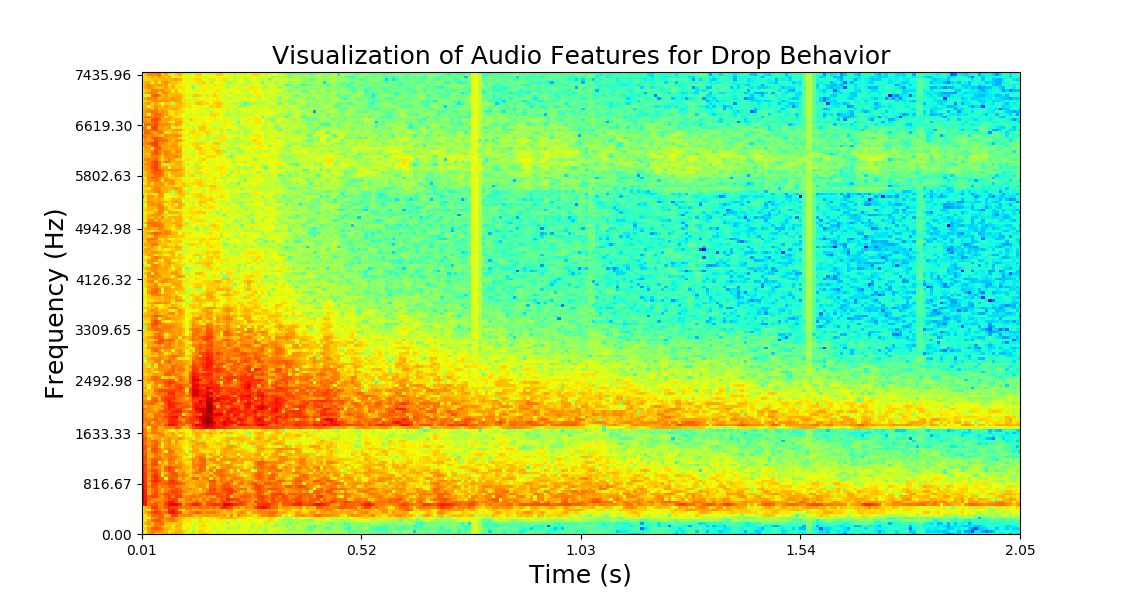
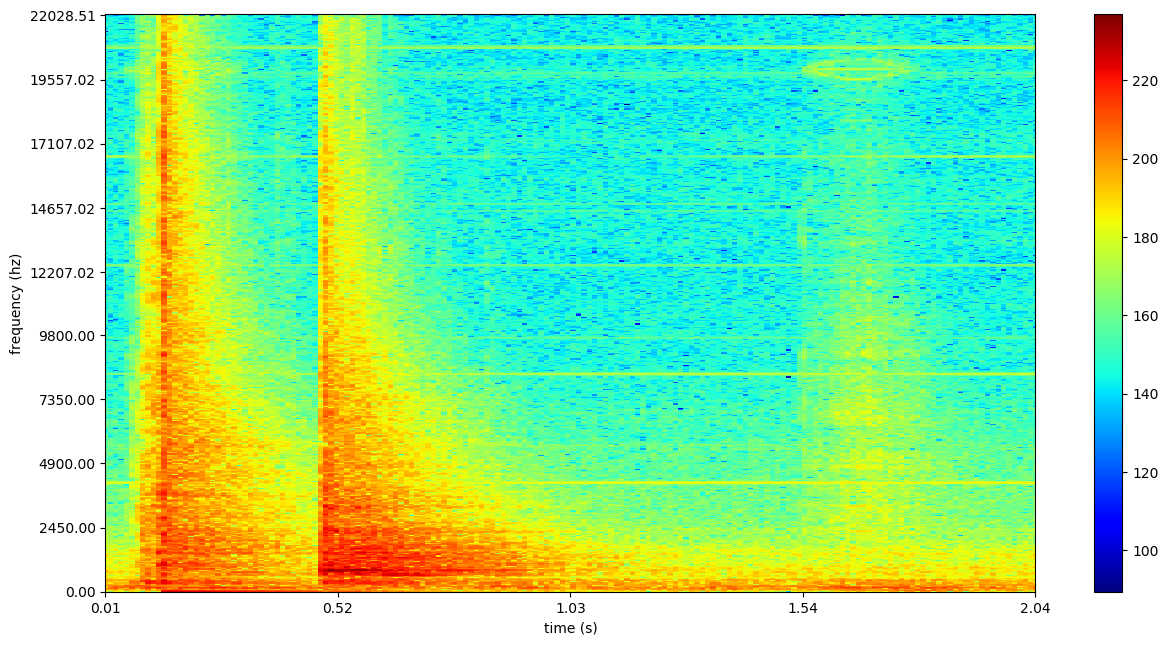
visual update

diff --git a/dataset_visualization/plot_haptic_all_frames.py b/dataset_visualization/plot_haptic_all_frames.py
@@ -22,11 +22,11 @@ crop_stategy = {
     'hold': [0, -1],
 }
 
-behavior='low_drop'
-n_frames_low_drop_can_coke=22
+behavior='crush'
+n_frames_low_drop_can_coke=48
 
-path1= '/Users/ramtin/PycharmProjects/data/CY101/rc_data/can_coke/trial_1/exec_1/low_drop/proprioception/ttrq0.txt'
-path2='/Users/ramtin/PycharmProjects/data/CY101/rc_data/can_coke/trial_1/exec_1/low_drop/proprioception/cpos0.txt'
+path1= '/home/golf/code/data/CY101/rc_data/can_coke/trial_1/exec_1/crush/proprioception/ttrq0.txt'
+path2='/home/golf/code/data/CY101/rc_data/can_coke/trial_1/exec_1/crush/proprioception/cpos0.txt'
 
 haplist1 = open(path1, 'r').readlines()
 haplist2 = open(path2, 'r').readlines()
@@ -39,15 +39,9 @@ bins = np.arange(haplist[0][0], haplist[-1][0], time_duration)
 end_time = haplist[-1][0]
 groups = np.digitize(haplist[:, 0], bins, right=False)
 
-# print("%d," %end_time)
-# for bin in bins:
-#     print("%d," %bin)
-
 haplist = [haplist[np.where(groups == idx)][..., 1:][:48] for idx in range(1, n_frames_low_drop_can_coke + 1)]
 haplist = [np.pad(ht, [[0, 48 - ht.shape[0]], [0, 0]], mode='edge')[np.newaxis, ...] for ht in haplist]
 haplist = haplist[crop_stategy[behavior][0]:crop_stategy[behavior][1]]
-
-# print(haplist[0][0]) # one frame
 
 haptic_across_all_frames = []
 for i in range(0, 21):
@@ -63,21 +57,36 @@ for index, a_frame in enumerate(haptic_across_all_frames):
 
 # haptic_data = np.array(haptic_across_all_frames).T.reshape(10,21) # extend
 haptic_data = haptic_across_all_frames.T
+sum_of_rows = haptic_data.sum(axis=1)
+haptic_data = haptic_data/ sum_of_rows[:, np.newaxis]
+fig = plt.figure(figsize=(22.0, 8.0))
+import matplotlib.gridspec as gridspec
+gs = gridspec.GridSpec(10, 1, hspace=0.1)
+# fig1, f1_axes = plt.subplots(ncols=1, nrows=10, constrained_layout=True,figsize=(20.0, 8.0))
+ax1 = None
+for i, g in enumerate(gs):
+    ax = plt.subplot(g)
+    ax.set_xticks([])
+    ax.set_yticks([])
+    # ax.set_title(str(i+1))
+    if i ==0 :
+        plt.title("Visualization of Haptic Features", fontsize=24)
+    # ax.set_yticks(np.arange(0, 10+1, 1))
+    plt.imshow(haptic_data[i:i+1,:])
+    plt.ylabel(ylabel=str(i+1), fontsize=20)
+    if i == 9:
+        plt.xticks(np.arange(0, 21+1, 2), fontsize=20)
+        # plt.
+# f1_axes[0].imshow(haptic_data, cmap=plt.cm.gray) #for gray_scale: cmap=plt.cm.gray
 
-fig = plt.figure(figsize=(20.0, 8.0))
-plt.imshow(haptic_data) #for gray_scale: cmap=plt.cm.gray
+# ax = plt.gca()
+# ax.set_xticklabels(np.arange(1, 21+1 , 2))
+# ax.set_yticklabels(np.arange(1, 10+1, 1))
 
-ax = plt.gca()
-ax.set_xticks(np.arange(0, 21+1, 2))
-ax.set_yticks(np.arange(0, 10+1, 1))
-ax.set_xticklabels(np.arange(1, 21+1 , 2))
-ax.set_yticklabels(np.arange(1, 10+1, 1))
+# plt.ylabel(ylabel="Joints [1-7], End Effector [8-10]", fontsize=18)
+plt.xlabel(xlabel="Frames", fontsize=24)
 
-plt.ylabel(ylabel="Joints [1-7], End Effector [8-10]", fontsize=18)
-plt.xlabel(xlabel="Frames", fontsize=18)
-plt.title("Visualization of Haptic Features", fontsize=18)
-
-plt.colorbar()
-# plt.show()
+# plt.colorbar()
 plt.savefig("haptic_low_drop_can_coke.png", dpi=300, bbox_inches='tight')
+plt.show()
 plt.close()

diff --git a/results/plot_all_with_std.py b/results/plot_all_with_std.py
@@ -16,15 +16,15 @@ f, axes = plt.subplots(1, 2, figsize=(13.5,4.5)) #figsize=(13.5,4.5)
 for i, metric in enumerate(paths):
     df = pd.read_csv(paths[metric])
     if i == len(paths)-1:
-        axes[1].errorbar(x=range(4, 20), y=df.use_haptic_audio_vibro_mean, yerr=df.use_haptic_audio_vibro_std, marker="o", label="vision+haptic+audio+vibro", color='red')
-        axes[1].errorbar(x=range(4, 20), y=df.use_haptic_audio_mean, yerr=df.use_haptic_audio_std, marker="o", label="vision+haptic+audio", color='green')
-        axes[1].errorbar(x=range(4, 20), y=df.use_haptic_mean, yerr=df.use_haptic_std, marker="o", label="vision+haptic", color='orange')
-        axes[1].errorbar(x=range(4, 20), y=df.baseline_mean, yerr=df.baseline_std, marker=8, label="Finn et al.", color='blue')
+        axes[1].errorbar(x=range(4, 20), y=df.use_haptic_audio_vibro_mean, yerr=df.use_haptic_audio_vibro_std, marker="x", fillstyle='none',label="vision+haptic+audio+vibro", color='red')
+        axes[1].errorbar(x=range(4, 20), y=df.use_haptic_audio_mean, yerr=df.use_haptic_audio_std, marker='v', fillstyle='none',label="vision+haptic+audio", color='green')
+        axes[1].errorbar(x=range(4, 20), y=df.use_haptic_mean, yerr=df.use_haptic_std, marker="o", fillstyle='none',label="vision+haptic", color='orange')
+        axes[1].errorbar(x=range(4, 20), y=df.baseline_mean, yerr=df.baseline_std, marker=8, fillstyle='none',label="Finn et al.", color='blue')
     else:
-        axes[0].errorbar(x=range(4, 20), y=df.use_haptic_audio_vibro_mean, yerr=df.use_haptic_audio_vibro_std, marker="o", color='red')
-        axes[0].errorbar(x=range(4, 20), y=df.use_haptic_audio_mean, yerr=df.use_haptic_audio_std, marker="o", color='green')
-        axes[0].errorbar(x=range(4, 20), y=df.use_haptic_mean, yerr=df.use_haptic_std, marker="o", color='orange')
-        axes[0].errorbar(x=range(4, 20), y=df.baseline_mean, yerr=df.baseline_std, marker=8, color='blue')
+        axes[0].errorbar(x=range(4, 20), y=df.use_haptic_audio_vibro_mean, yerr=df.use_haptic_audio_vibro_std, fillstyle='none',marker="x", color='red')
+        axes[0].errorbar(x=range(4, 20), y=df.use_haptic_audio_mean, yerr=df.use_haptic_audio_std, marker='v', fillstyle='none',color='green')
+        axes[0].errorbar(x=range(4, 20), y=df.use_haptic_mean, yerr=df.use_haptic_std, marker="o",fillstyle='none', color='orange')
+        axes[0].errorbar(x=range(4, 20), y=df.baseline_mean, yerr=df.baseline_std, marker=8, fillstyle='none',color='blue')
     axes[i].set_ylabel(metric, fontsize = 16)
     axes[i].set_xlabel("Time step", fontsize = 16)
     axes[i].set_title("Heldout set reconstruction evaluation", fontsize = 18)

diff --git a/data/make_spectrogram.py b/data/make_spectrogram.py
@@ -57,11 +57,29 @@ def logscale_spec(spec, sr=44100, factor=20.):
 
 def plotstft(audio_path, binsize=2 ** 10, plotpath=None, colormap="jet", fig_name="spectrogram"):
     samplerate, samples = wav.read(audio_path)
+    import matplotlib.pyplot as plt
     s = stft(samples[:, 0], binsize)
 
     sshow, freq = logscale_spec(s, factor=1.0, sr=samplerate)
     sshow = sshow[2:, :]
     ims = 20. * np.log10(np.abs(sshow) / 10e-6)  # amplitude to decibel
+    timebins, freqbins = np.shape(ims)
+    plt.figure(figsize=(15, 7.5))
+    plt.imshow(np.transpose(ims), origin="lower", aspect="auto", cmap=colormap, interpolation="none")
+    plt.colorbar()
+
+    plt.xlabel("time (s)", fontsize=14)
+    plt.ylabel("frequency (hz)", fontsize=14)
+    plt.xlim([0, timebins - 1])
+    plt.ylim([0, freqbins])
+
+    xlocs = np.float32(np.linspace(0, timebins - 1, 5))
+    plt.xticks(xlocs, ["%.02f" % l for l in ((xlocs * len(samples) / timebins) + (0.5 * binsize)) / samplerate], fontsize=12)
+    ylocs = np.int16(np.round(np.linspace(0, freqbins - 1, 10)))
+    plt.yticks(ylocs, ["%.02f" % freq[i] for i in ylocs], fontsize=12)
+
+    plt.savefig("audio_spectrogram_low_drop_can_coke.png", bbox_inches="tight")
+
     ims = np.transpose(ims)
     ims = ims[0:256, :]
     return ims, 1/samplerate*samples.shape[0]

diff --git a/dataset_visualization/plot_raw_data_vibro.py b/dataset_visualization/plot_raw_data_vibro.py
@@ -19,7 +19,7 @@ crop_stategy = {
 behavior = 'low_drop'
 n_frames_low_drop_can_coke = 22
 
-path = "/Users/ramtin/PycharmProjects/data/CY101/rc_data/can_coke/trial_1/exec_1/low_drop" \
+path = "/home/golf/code/data/CY101/rc_data/can_coke/trial_1/exec_1/low_drop" \
        "/vibro/b877428f-4080-11e0-bd19-000c2930dc90-1301423955849128165.tsv"
 
 vibro_list = open(path).readlines()
@@ -77,7 +77,7 @@ fig = plt.figure(figsize=(20.0, 8.0))
 plt.plot(timestep, x, label="x-axis accelerometer")
 plt.plot(timestep, y, label="y-axis accelerometer")
 plt.plot(timestep, z, label="z-axis accelerometer")
-plt.plot(timestep, std, label="magnitude deviation of accelerometer")
+# plt.plot(timestep, std, label="magnitude deviation of accelerometer")
 
 plt.ylabel(ylabel="Acceleration", fontsize=18)
 plt.xlabel(xlabel="Time (ms)", fontsize=18)

diff --git a/data/make_data.py b/data/make_data.py
@@ -157,9 +157,11 @@ def generate_npy_audio(path, n_frames_vision_image, behavior, sequence_length):
  # create a new dimension
 
     image_height, image_width = img.shape
+    import cv2
     image_width = AUDIO_EACH_FRAME_LENGTH * n_frames_vision_image
     img = PIL.Image.fromarray(img)
     img = img.resize((image_height, image_width))
+
     img = np.array(img)
     img = img[np.newaxis, ...]
     imglist = []
